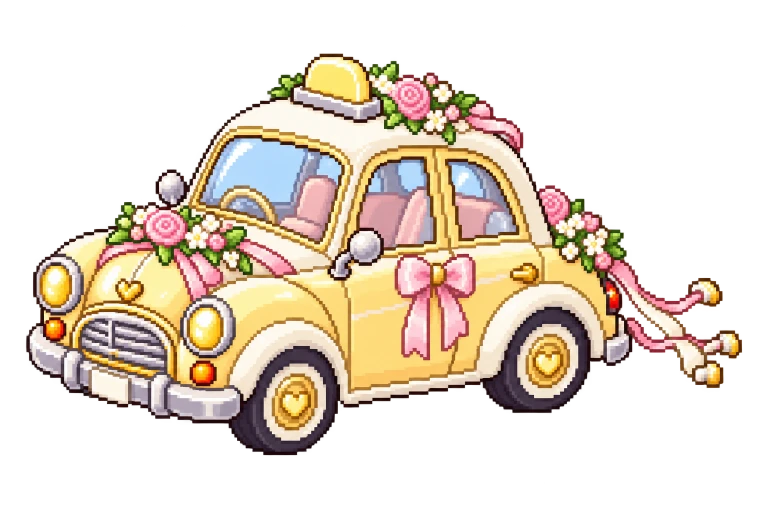
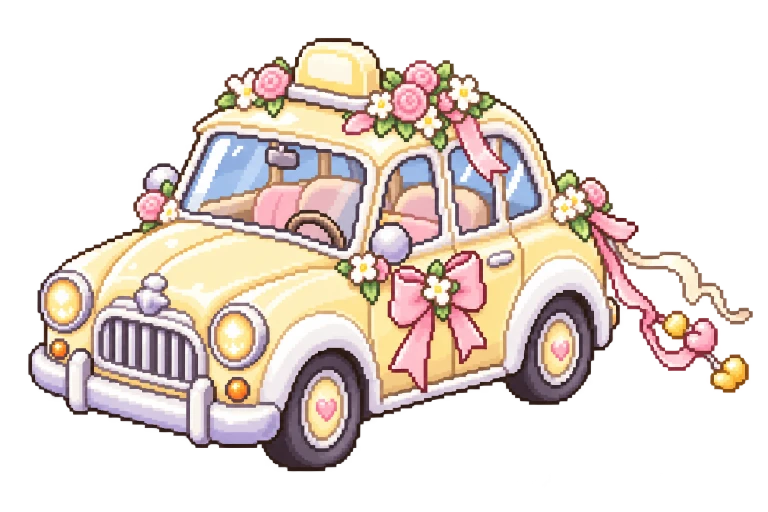
Taxi in a three-quarter front view with depth; keep it upright

diff --git a/js/character.js b/js/character.js
@@ -848,10 +848,10 @@ class NpcCharacter extends GuestCharacter {
     this.x = Phaser.Math.Clamp(this.x, this.minX, this.maxX);
     this.y = floorY(this.floor, this.x);
     this.effect = npc.effect ? new NpcEffect(scene, this, npc.effect) : null;
-    if (npc.fixed) this.alignToFloor();
+    if (npc.tilt) this.alignToFloor();
   }
 
-  /** 고정 NPC(택시)는 발판 기울기에 맞춰 살짝 기울인다 */
+  /** npc.tilt면 발판 기울기에 맞춰 살짝 기울인다 (옆모습 이미지용. 3/4 입체 이미지는 똑바로 두는 게 자연스럽다) */
   alignToFloor() {
     const slope = (floorY(this.floor, this.x + 8) - floorY(this.floor, this.x - 8)) / 16;
     this.sprite.setRotation(Math.atan(slope));
@@ -909,7 +909,7 @@ class NpcCharacter extends GuestCharacter {
       // 고정 NPC(택시)는 발판이 남아 있으면 그 자리 그대로
       if (CONFIG.floors[this.floorName]) {
         this.y = floorY(this.floor, this.x);
-        this.alignToFloor();
+        if (this.npc.tilt) this.alignToFloor();
       }
       return;
     }

diff --git a/CLAUDE.md b/CLAUDE.md
@@ -126,7 +126,7 @@ prompt/                 캐릭터/걷기 스프라이트 생성용 프롬프트 
   - Vercel 환경변수 `DEV_PASSWORD` 필요. 저장 후 로컬에서 push 전 `git pull --rebase`.
 
 ## NPC (`js/npcs.js`, `NpcCharacter`)
-- 푸딩(흰 토끼, 늘 꽃가루), 얼룩말(하트 선글라스, 서 있으면 비눗방울, 걸으면 파티 블로어 + 음표), 고양이 4마리(미미·옹이·복실이·별이(흰 페르시안): 어슬렁/그루밍/자기), 에쏘(크림색 보더콜리, 신랑·신부 주변 ±170px 뛰어다님, 앉아서 뒷다리로 머리 긁기), 몽실이(흰 페키니즈: 천천히 걷기, 올려다보기, 핑크 삑삑이 덤벨 물고 앉기), 택시(고정, 광장 발판 기울기에 맞춰 살짝 기울임 `alignToFloor`, 파스텔 웨딩 택시·위에서 살짝 내려다본 각도).
+- 푸딩(흰 토끼, 늘 꽃가루), 얼룩말(하트 선글라스, 서 있으면 비눗방울, 걸으면 파티 블로어 + 음표), 고양이 4마리(미미·옹이·복실이·별이(흰 페르시안): 어슬렁/그루밍/자기), 에쏘(크림색 보더콜리, 신랑·신부 주변 ±170px 뛰어다님, 앉아서 뒷다리로 머리 긁기), 몽실이(흰 페키니즈: 천천히 걷기, 올려다보기, 핑크 삑삑이 덤벨 물고 앉기), 택시(고정, 파스텔 웨딩 택시를 앞·옆이 함께 보이는 3/4 입체 각도로. `npc.tilt`를 주면 발판 기울기에 맞춰 기울임 — 입체 이미지라 택시는 안 씀).
 - 푸딩·에쏘·별이·몽실이는 실제 사진 `img/npc/<id>/origin.jpg` 기반으로 생성(사진은 개인 사진이라 `.gitignore`로 저장소에 안 올림 — 다시 생성하려면 로컬에 있어야 함).
 - NPC 이미지는 OpenAI `background: transparent`로 생성. `removeBackground`는 네 귀퉁이가 투명한 이미지면 흰색을 지우지 않음(흰 털이 뚫리던 문제).
 - `NpcCharacter extends GuestCharacter`: 점프·사다리·로프 안 씀(canJump/canClimb=false), 조종 불가(팝업에 조종 버튼 없음). 동작은 idle/walk + NPC별 특수 동작(sleep, scratch…, `states`에 비율·`<동작>Time`), NPC별 height·motionFrames·motionHeight.
